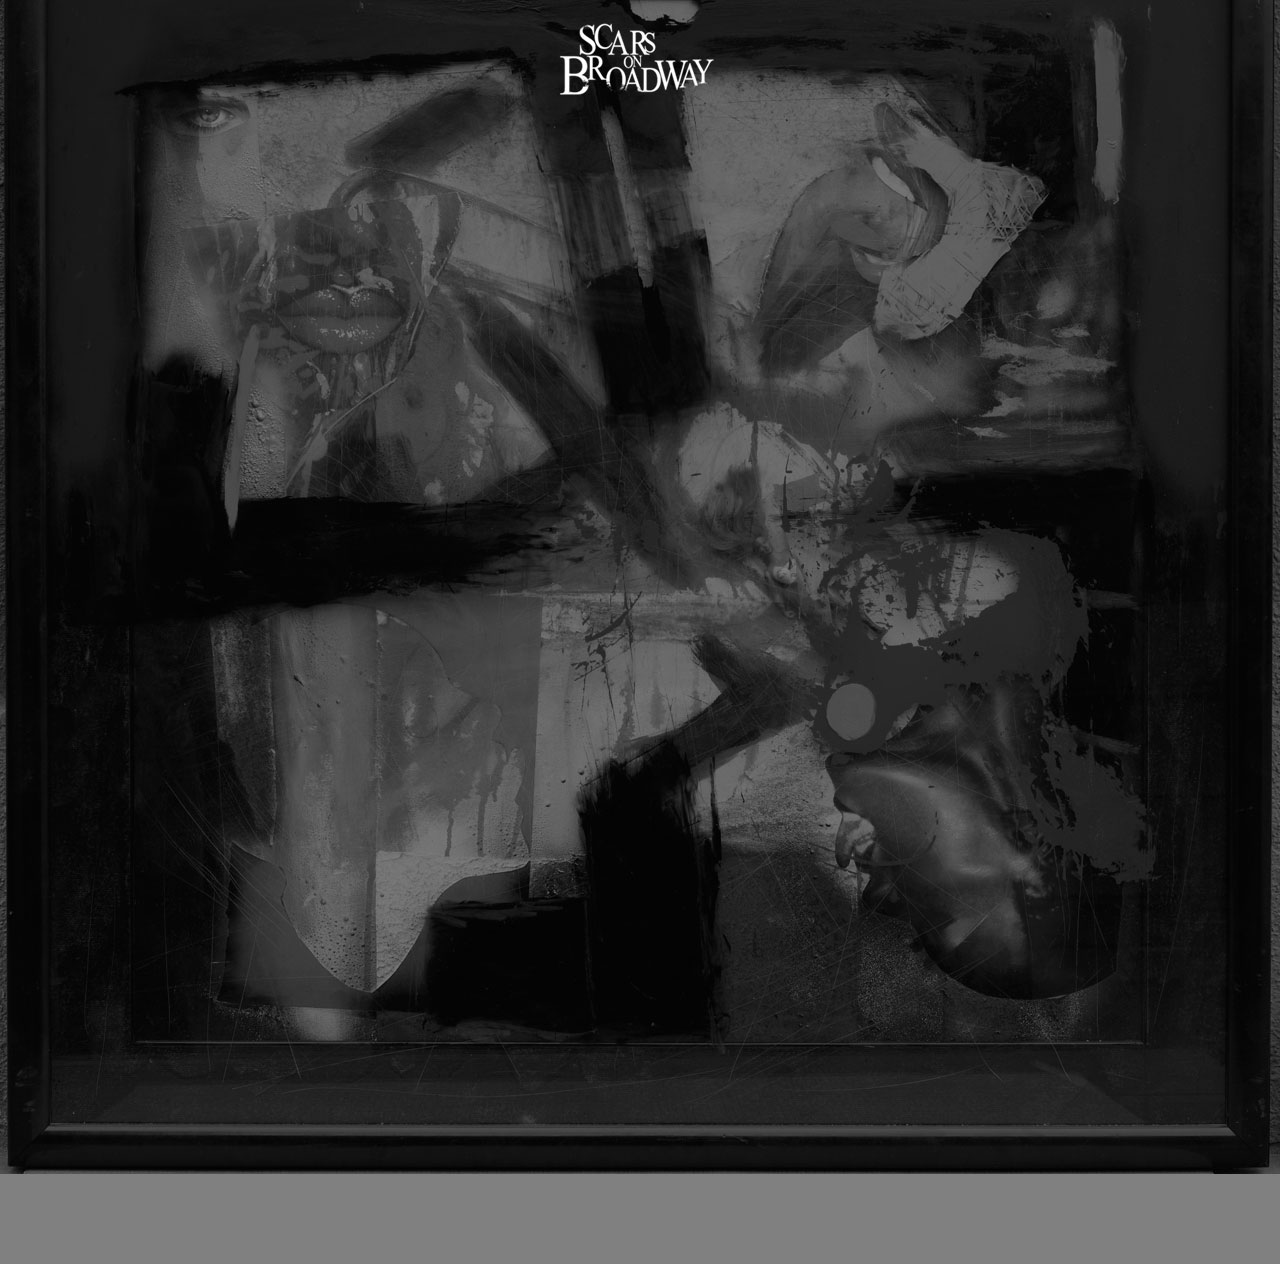
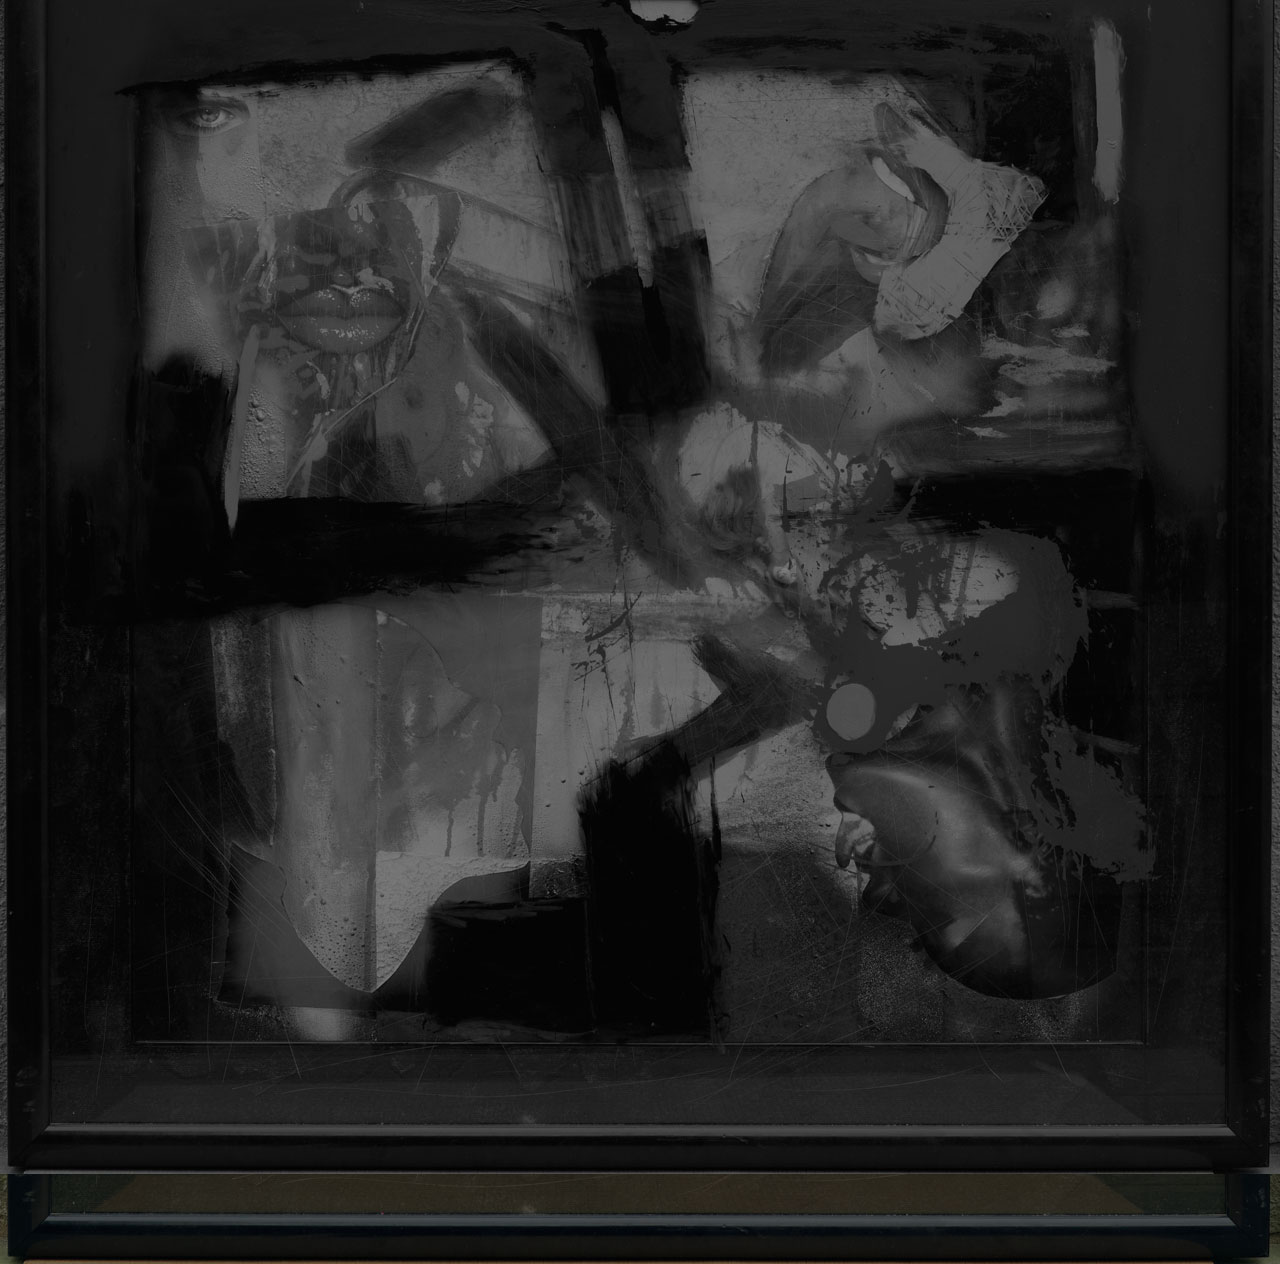
centered page

Changed region(s): [[0.0, 0.9256, 1.0, 1.0], [0.4375, 0.0, 0.5625, 0.0926]]

diff --git a/public/stylesheets/application.css b/public/stylesheets/application.css
@@ -3,12 +3,29 @@
 	padding: 0;
 }
 
-body, html { width: 100%; height: 100%; }
+/*body, html { width: 100%; height: 100%; }*/
 
 body{
 	background: #000 url('/images/bg.jpg') top center no-repeat;
 	color: #CCC;
 	font: 14px Georgia, serif;
+	text-align: center;
+	min-width: 800px;
+	min-height: 500px;
+}
+
+#vertial{
+	position: absolute;
+	top: 50%;
+	margin-top: -250px;
+	left: 0;
+	width: 100%;
+}
+
+#hoz{
+	width: 800px;
+	margin: 0 auto;
+	height: 500px;
 }
 
 p{ margin: 0 0 10px 0; }
